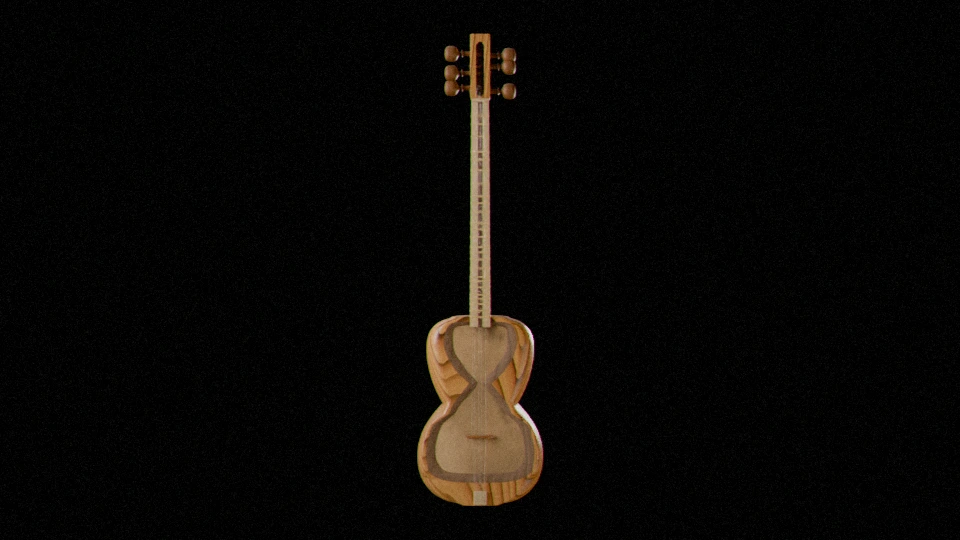
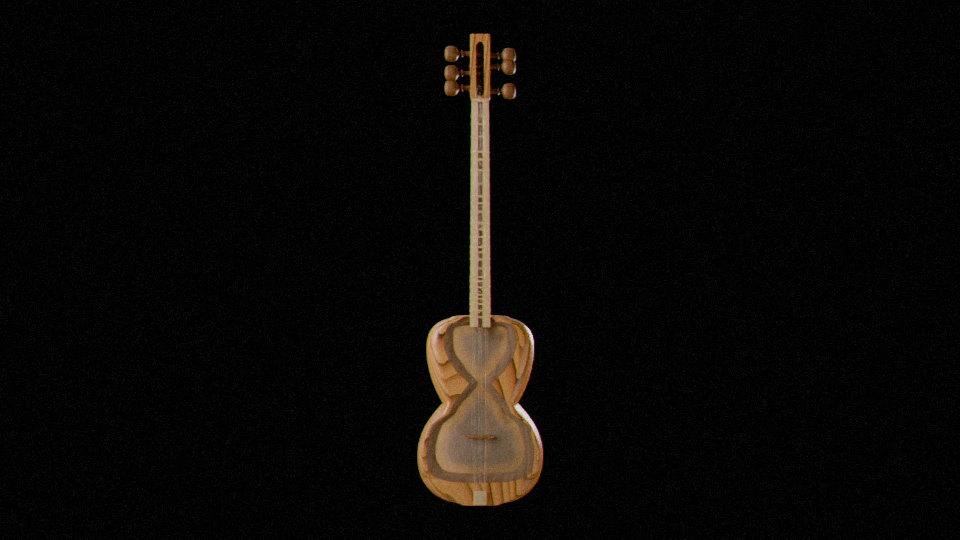
Render: skin reads thin over the hollow and glued over the wood (round 12)
A distance-from-edge map built from the skin mesh drives the skin: greyer, faintly
violet and more translucent in the middle where the dark bowl shows through, light,
warm and opaque with a dried-glue sheen near the edge, a thin darker glue line on
the edge itself, and a noise-broken boundary between them.

Claude-Session: https://claude.ai/code/session_01G1uTAfhbgKsxoFAeno84xV

Changed region(s): [[0.4688, 0.7407, 0.5312, 0.8593], [0.4688, 0.6222, 0.5312, 0.6815]]

diff --git a/render/build_scene.py b/render/build_scene.py
@@ -294,6 +294,36 @@ def textured(name, tex, scale, roughness, sss=0.0, sss_radius=(1.0, 0.6, 0.4), t
     return m, nt, bsdf
 
 
+SKIN_EDGE = None  # (image path, x0, z0, width, height) in metres, made in setup()
+
+
+def make_skin_edge_map(objs, px_per_cm=20, max_cm=3.0):
+    """Distance from the skin's glued edge, as an image over the skin (0 at the edge, white
+    3 cm in). Real skin reads lighter and warmer near the edge, where it lies on wood and is
+    soaked with glue, and darker in the middle, where the dark hollow shows through it."""
+    from PIL import Image, ImageDraw, ImageFilter
+    skin = [o for o in objs if o.name.startswith('skin__')][0]
+    me = skin.data
+    xs = [v.co.x for v in me.vertices]; zs = [v.co.z for v in me.vertices]
+    x0, z0 = min(xs) - 0.005, min(zs) - 0.005
+    w, h = max(xs) + 0.005 - x0, max(zs) + 0.005 - z0
+    W, H = round(w * 100 * px_per_cm), round(h * 100 * px_per_cm)
+    im = Image.new('L', (W, H), 0); dr = ImageDraw.Draw(im)
+    to_px = lambda v: ((v.co.x - x0) / w * W, (1 - (v.co.z - z0) / h) * H)
+    for poly in me.polygons:
+        dr.polygon([to_px(me.vertices[i]) for i in poly.vertices], fill=255)
+    steps = round(max_cm * px_per_cm)
+    dist = Image.new('L', (W, H), 0)
+    cur = im
+    for k in range(steps):  # erode one pixel at a time: each survivor is one step further in
+        cur = cur.filter(ImageFilter.MinFilter(3))
+        lvl = round(255 * (k + 1) / steps)
+        dist.paste(lvl, mask=cur)
+    dist = dist.filter(ImageFilter.GaussianBlur(1.5))
+    path = BUILD / 'skin_edge.png'; dist.save(path)
+    return (path, x0, z0, w, h)
+
+
 def skin_material():
     """Lamb skin: thin, translucent rawhide. The web texture gives the broad tone; for close-ups
     (round 11) it gains what real stretched skin shows: soft mottling where it is thicker or
@@ -358,6 +388,50 @@ def skin_material():
     keep = op('GREATER_THAN', sep.outputs['Red'], 0.82)
     speck = op('MULTIPLY', dot, keep)
     col = multiply(col, grey(op('SUBTRACT', 1.0, op('MULTIPLY', speck, 0.25))))
+    # Round 12: the skin over the hollow vs over the wood. In the middle the dark bowl shows
+    # through the thin skin: it reads greyer, cooler and darker (R7: about 69 65 75). Near the
+    # edge it lies on the wooden lip and is soaked with glue: lighter, warmer, more opaque, with a
+    # thin darker line right at the glued edge.
+    path, ex0, ez0, ew, eh = SKIN_EDGE
+    sepc = N('ShaderNodeSeparateXYZ'); nt.links.new(co, sepc.inputs[0])
+    uvc = N('ShaderNodeCombineXYZ')
+    nt.links.new(op('DIVIDE', op('SUBTRACT', sepc.outputs['X'], ex0), ew), uvc.inputs['X'])
+    nt.links.new(op('DIVIDE', op('SUBTRACT', sepc.outputs['Z'], ez0), eh), uvc.inputs['Y'])
+    edge_img = N('ShaderNodeTexImage'); edge_img.image = bpy.data.images.load(str(path), check_existing=False)
+    edge_img.image.colorspace_settings.name = 'Non-Color'; edge_img.extension = 'EXTEND'
+    nt.links.new(uvc.outputs[0], edge_img.inputs['Vector'])
+    inward = edge_img.outputs['Color']  # 0 at the edge … 1 three cm in (grey: the R channel is enough)
+    inw = N('ShaderNodeSeparateColor'); nt.links.new(inward, inw.inputs['Color'])
+    d = inw.outputs['Red']
+    hollow = N('ShaderNodeMapRange'); hollow.inputs['From Min'].default_value = 0.15; hollow.inputs['From Max'].default_value = 0.85
+    hollow.interpolation_type = 'SMOOTHSTEP'
+    nt.links.new(d, hollow.inputs['Value'])
+    hol = hollow.outputs['Result']
+    # break the edge band up so it is not a ruled stripe: glue never spreads evenly
+    gl = N('ShaderNodeTexNoise'); gl.inputs['Scale'].default_value = 40.0; gl.inputs['Detail'].default_value = 3.0
+    nt.links.new(co, gl.inputs['Vector'])
+    hol = op('MINIMUM', 1.0, op('MAXIMUM', 0.0, op('ADD', op('MULTIPLY', hol, 0.85), op('MULTIPLY', op('SUBTRACT', gl.outputs['Fac'], 0.5), 0.7))))
+    over = N('ShaderNodeMix'); over.data_type = 'RGBA'
+    over.inputs['A'].default_value = (1.06, 0.98, 0.86, 1)   # over the wood, glued: warm, light
+    over.inputs['B'].default_value = (0.7, 0.69, 0.73, 1)   # over the hollow: grey-violet, darker
+    nt.links.new(hol, over.inputs['Factor'])
+    col = multiply(col, over.outputs['Result'])
+    # the hollow behind takes the colour out of the thin skin: greyer, a touch violet, not brown
+    bw = N('ShaderNodeRGBToBW'); nt.links.new(col, bw.inputs['Color'])
+    desat = N('ShaderNodeMix'); desat.data_type = 'RGBA'
+    nt.links.new(op('MULTIPLY', hol, 0.5), desat.inputs['Factor'])
+    nt.links.new(col, desat.inputs['A'])
+    nt.links.new(multiply(grey(bw.outputs['Val']), N('ShaderNodeRGB').outputs[0]), desat.inputs['B'])
+    rgbn = [n for n in nt.nodes if n.type == 'RGB'][-1]; rgbn.outputs[0].default_value = (0.97, 0.95, 1.06, 1)
+    col = desat.outputs['Result']
+    glue = N('ShaderNodeMapRange'); glue.inputs['From Min'].default_value = 0.0; glue.inputs['From Max'].default_value = 0.08
+    glue.inputs['To Min'].default_value = 0.72; glue.inputs['To Max'].default_value = 1.0
+    nt.links.new(d, glue.inputs['Value'])
+    glue_c = N('ShaderNodeCombineColor')
+    nt.links.new(glue.outputs['Result'], glue_c.inputs['Red'])
+    nt.links.new(op('ADD', 0.03, op('MULTIPLY', glue.outputs['Result'], 0.97)), glue_c.inputs['Green'])
+    nt.links.new(op('ADD', 0.08, op('MULTIPLY', glue.outputs['Result'], 0.92)), glue_c.inputs['Blue'])
+    col = multiply(col, glue_c.outputs['Color'])
     nt.links.new(col, bsdf.inputs['Base Color'])
     # fine relief: raised veins, a faint grain, and the specks as tiny pits
     micro = N('ShaderNodeTexNoise'); micro.inputs['Scale'].default_value = 2500.0; micro.inputs['Detail'].default_value = 2.0
@@ -365,11 +439,13 @@ def skin_material():
     height = op('ADD', op('MULTIPLY', vein_h, 0.5), op('SUBTRACT', micro.outputs['Fac'], op('MULTIPLY', speck, 0.6)))
     bump = N('ShaderNodeBump'); bump.inputs['Strength'].default_value = 0.12; bump.inputs['Distance'].default_value = 0.0003
     nt.links.new(height, bump.inputs['Height']); nt.links.new(bump.outputs['Normal'], bsdf.inputs['Normal'])
-    bsdf.inputs['Roughness'].default_value = 0.62
     # light shows through more where the skin is thinner
     trans = N('ShaderNodeBsdfTranslucent'); trans.inputs['Color'].default_value = srgb('#d9c4a8')
     mix = N('ShaderNodeMixShader')
-    nt.links.new(op('SUBTRACT', 0.1, op('MULTIPLY', thick, 0.08)), mix.inputs['Fac'])
+    nt.links.new(op('MULTIPLY', hol, op('SUBTRACT', 0.35, op('MULTIPLY', thick, 0.15))), mix.inputs['Fac'])
+    # the glued edge has a soft sheen of dried glue; the free skin is matte
+    rough = N('ShaderNodeMapRange'); rough.inputs['To Min'].default_value = 0.45; rough.inputs['To Max'].default_value = 0.68
+    nt.links.new(hol, rough.inputs['Value']); nt.links.new(rough.outputs['Result'], bsdf.inputs['Roughness'])
     nt.links.new(bsdf.outputs['BSDF'], mix.inputs[1]); nt.links.new(trans.outputs['BSDF'], mix.inputs[2])
     nt.links.new(mix.outputs['Shader'], out.inputs['Surface'])
     return m
@@ -702,6 +778,8 @@ def setup(width, height, samples):
         near = [-c.y / CM for c in shell if abs(c.z / CM - y_cm) < 0.5]
         return min(near) if near else -20.0  # web z of the back (Blender y = -web z)
     BODY_BACK = body_back
+    global SKIN_EDGE
+    SKIN_EDGE = make_skin_edge_map(objs)
     build_materials()
     if os.environ.get('TAR_LIGHT', 'natural') == 'studio':
         build_world(); add_soft_key()  # rounds 1–7: soft, even studio light

diff --git a/docs/tar-3d/SPEC.md b/docs/tar-3d/SPEC.md
@@ -790,3 +790,15 @@ docs/tar-3d/test/    عکسها و گزارش تست فاز ۷
 |-------|------------------|------------------|
 | بافت نزدیک پوست و چوب، لب و `woodTop` | فاز ۵ | ر۲ |
 | افتادن صاف از روبهرو | فاز ۶ | ر۴ |
+
+## ۲۲. دور اصلاح ۱۲ — پوست: تفکیک «روی حفره» و «روی چوب» (۱۴۰۵/۰۷/۱۱)
+
+**بازخورد کاربر:** پوست همچنان مصنوعی و بدون تفکیک است.
+
+**علت:** پوست یکدست کرمیِ روشن بود؛ در حالی که پوست واقعیِ تار نازک است و در عکس R7 وسطش تیرهی خاکستری-بنفش (حدود ۶۹، ۶۵، ۷۵) دیده میشود، چون حفرهی تاریک کاسه از پشتش پیداست، و نزدیک لبه که روی چوب چسبیده روشنتر و گرمتر است.
+
+**اصلاح:** نقشهی فاصله از لبهی پوست از روی مش خودِ پوست ساخته میشود (`make_skin_edge_map`، ۰ روی لبه تا ۱ در ۳ سانتیمتری داخل). با آن: وسط پوست خاکستریتر، کمی بنفش و تیرهتر و با عبور نور بیشتر؛ نوار لبه روشن، گرم و کدرتر (روی چوب و آغشته به چسب) با کمی برق چسب خشکشده؛ یک خط باریک تیرهتر درست روی لبهی چسب. مرز این دو ناحیه با نویز شکسته شده تا نوار خطکشیشده نباشد. لایههای دور ۱۱ (لکه، رگ، نقطهی مو، برجستگی) سر جایشان هستند.
+
+| تغییر | فاز در طرح اصلی | فاز در راه حل ۲ |
+|-------|------------------|------------------|
+| تفکیک پوست روی حفره / روی چوب، خط چسب | فاز ۵ | ر۲ |
